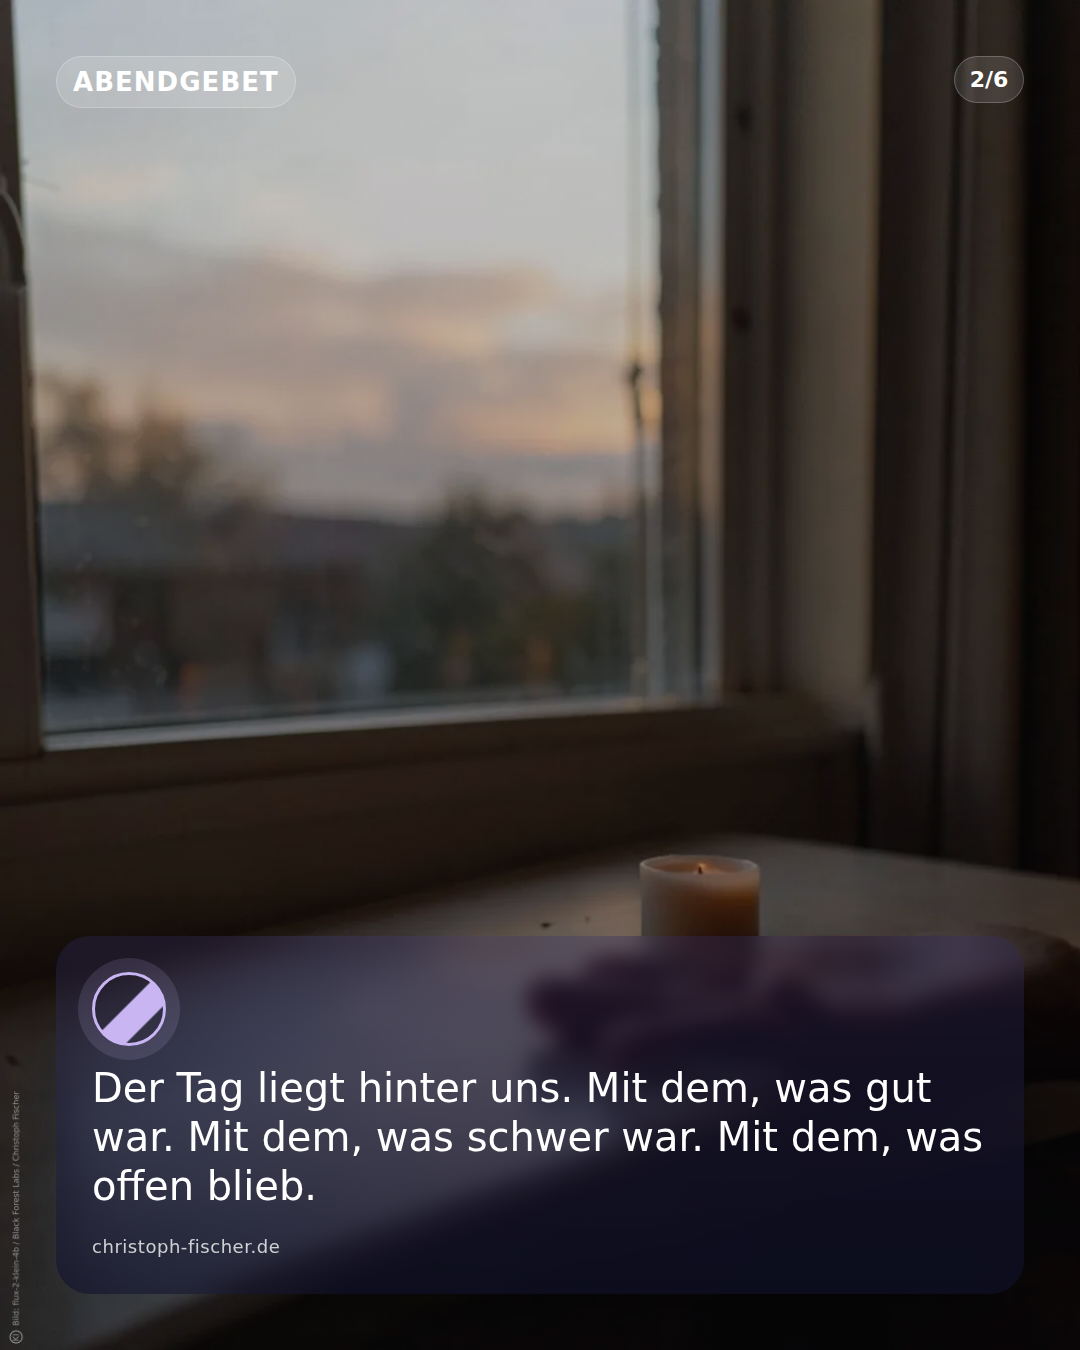
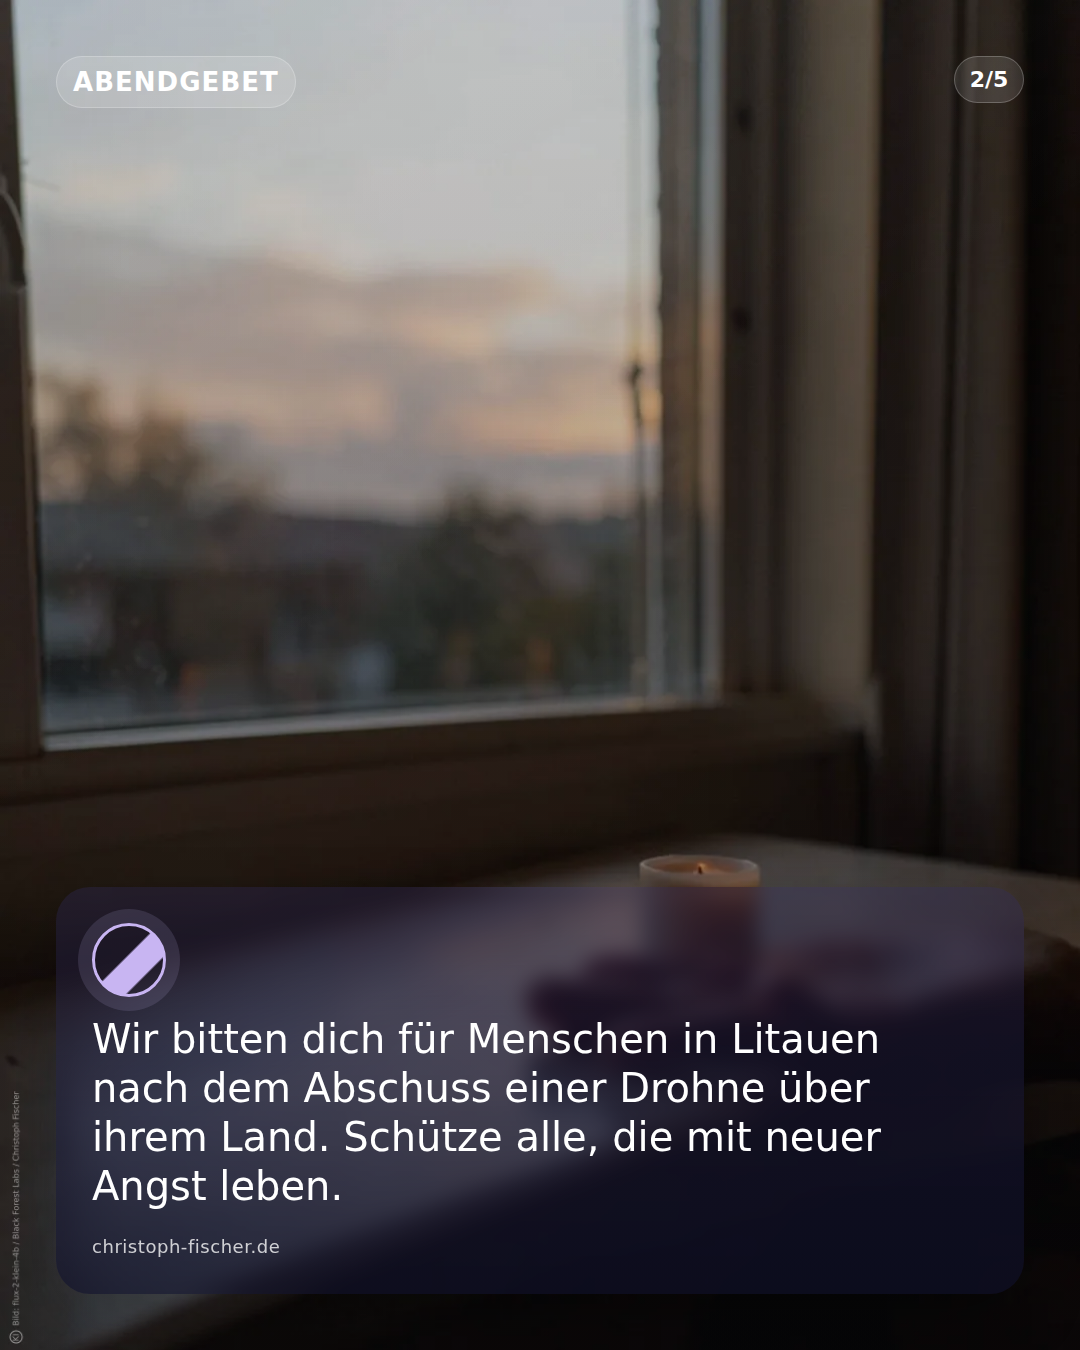
Update content: GET /files/2026-09-16/prayer-evening-2026-09-16/render-instagram-story-03.png

Changed region(s): [[0.0306, 0.6533, 0.9167, 0.9022], [0.55, 0.6533, 0.7028, 0.7156]]

diff --git a/2026-09-16/prayer-evening-2026-09-16/render-instagram-feed-03.html b/2026-09-16/prayer-evening-2026-09-16/render-instagram-feed-03.html
@@ -396,11 +396,11 @@
       <section class="layout">
         <div class="panel-meta">
           <div class="eyebrow">Abendgebet</div>
-          <div class="pager">3/6</div>
+          <div class="pager">3/5</div>
         </div>
         <section class="panel prayer-panel">
   <div class="prayer-symbol prayer-symbol-evening" aria-hidden="true"></div>
-  <p class="body-text" data-overflow-id="primary-text">Wir bitten dich für Menschen in Litauen nach dem Abschuss einer Drohne über ihrem Land. Schütze alle, die mit neuer Angst leben.</p>
+  <p class="body-text" data-overflow-id="primary-text">Wir bitten dich für Menschen, die unter organisierter Gewalt leiden. Für alle, die bedroht werden und heute Nacht nicht ruhig schlafen können.</p>
   <p class="sender-mark">christoph-fischer.de</p>
 </section>
 

diff --git a/2026-09-16/prayer-evening-2026-09-16/render-instagram-feed-02.html b/2026-09-16/prayer-evening-2026-09-16/render-instagram-feed-02.html
@@ -396,11 +396,11 @@
       <section class="layout">
         <div class="panel-meta">
           <div class="eyebrow">Abendgebet</div>
-          <div class="pager">2/6</div>
+          <div class="pager">2/5</div>
         </div>
         <section class="panel prayer-panel">
   <div class="prayer-symbol prayer-symbol-evening" aria-hidden="true"></div>
-  <p class="body-text" data-overflow-id="primary-text">Der Tag liegt hinter uns. Mit dem, was gut war. Mit dem, was schwer war. Mit dem, was offen blieb.</p>
+  <p class="body-text" data-overflow-id="primary-text">Wir bitten dich für Menschen in Litauen nach dem Abschuss einer Drohne über ihrem Land. Schütze alle, die mit neuer Angst leben.</p>
   <p class="sender-mark">christoph-fischer.de</p>
 </section>
 
